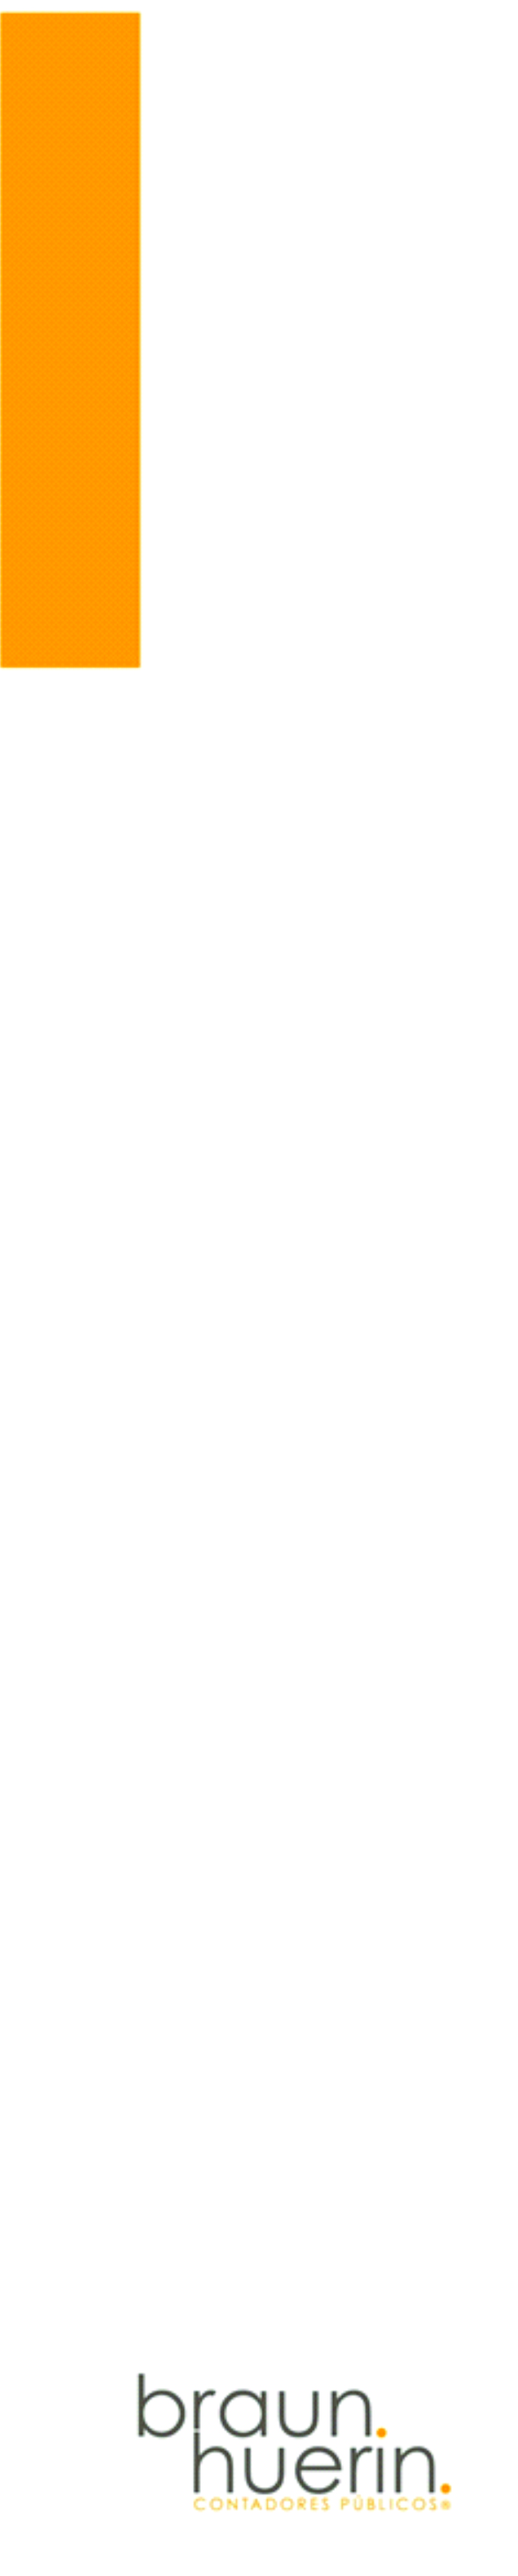
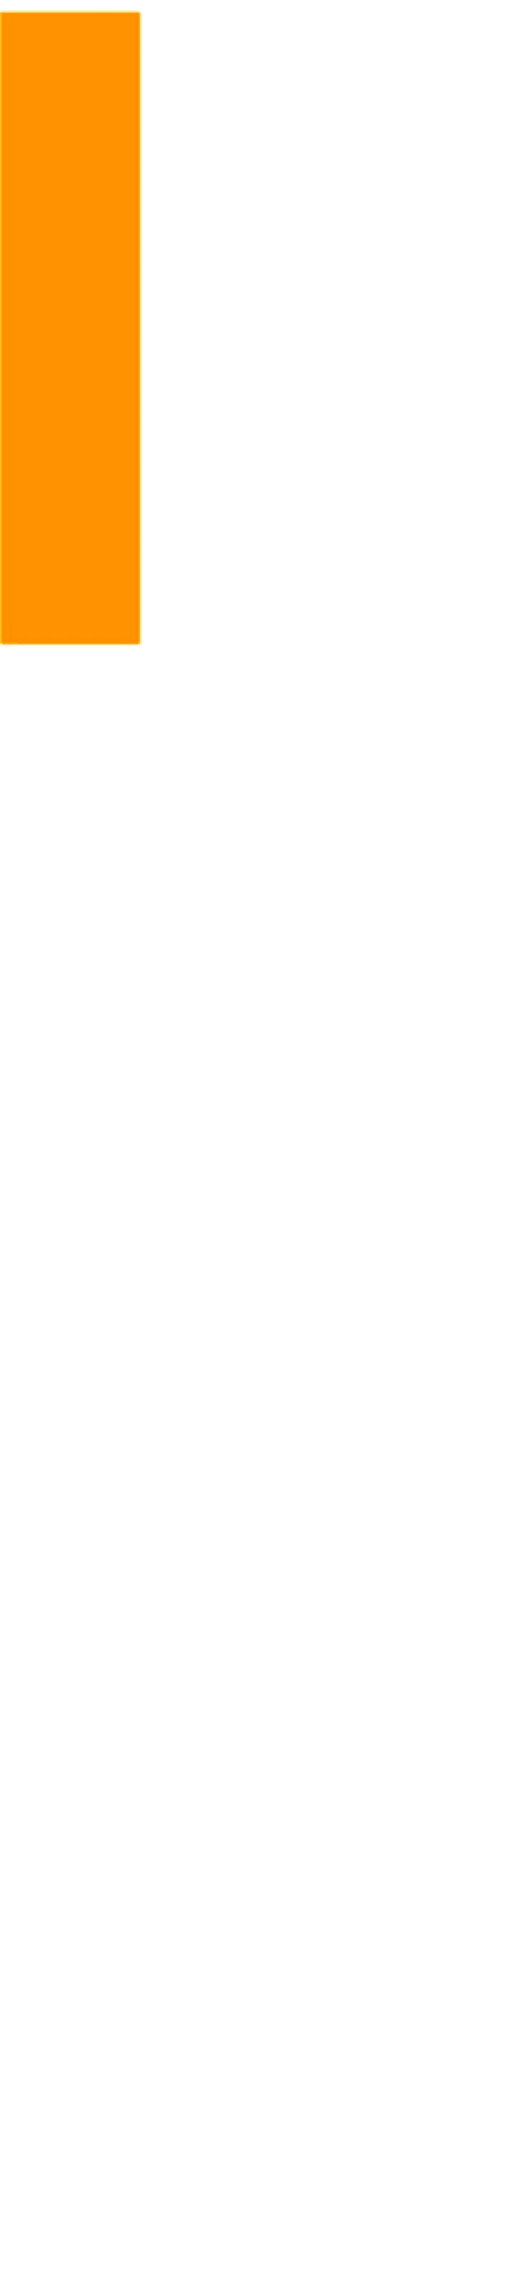
correcciones

Changed region(s): [[0.247, 0.901, 0.8645, 0.9942], [0.0, 0.0, 0.2779, 0.3107]]

diff --git a/services/pdfs/OfferExport.php b/services/pdfs/OfferExport.php
@@ -32,6 +32,7 @@ class OfferExport extends prospectOffer {
      */
     protected $defaultConfigPages;
     protected $settingsDefaultTextBox;
+    protected $footerDefaultSettingsFontStyle;
 
    /*
     * @var
@@ -72,16 +73,16 @@ class OfferExport extends prospectOffer {
 
         $this->settingsDefaultTextBox = array(
             'width' => Converter::cmToPoint(18.16),
-            'height' => Converter::cmToPoint(23.24),
+            'height' => Converter::cmToPoint(23),
             'borderColor' => 'none',
             'wrappingStyle' => 'infront',
             'positioning' => Image::POSITION_ABSOLUTE,
             'posVertical' => Image::POSITION_ABSOLUTE,
             'posHorizontal' => Image::POSITION_ABSOLUTE,
-            'posVerticalRel' => Image::POSITION_RELATIVE_TO_TEXT,
-            'posHorizontalRel' => Image::POSITION_RELATIVE_TO_COLUMN,
-            'marginTop' => Converter::cmToPoint(0.11),
-            'marginLeft' => Converter::cmToPoint(0.93),
+            'posVerticalRel' => Image::POSITION_RELATIVE_TO_MARGIN,
+            'posHorizontalRel' => Image::POSITION_RELATIVE_TO_MARGIN,
+            'marginTop' => Converter::cmToPoint(0.01),
+            'marginLeft' => Converter::cmToPoint(0.58),
         );
 
         $this->pDefaultSettingsFontStyle = array(
@@ -93,6 +94,13 @@ class OfferExport extends prospectOffer {
             'size' => 14,
             'name' => 'Arial',
             'color' => '#FFFFFF'
+        );
+        $this->footerDefaultSettingsFontStyle = array(
+            'size' => 8,
+            'name' => 'Arial',
+            'color' => '#595959',
+            'bold' => true,
+            'allCaps' => true,
         );
         $this->title1FontStyle = array(
             'size' => 16,
@@ -184,17 +192,80 @@ class OfferExport extends prospectOffer {
     function genericSection($drawTextbox = false) {
         $page = new stdClass();
         $page->section = $this->object->addSection($this->defaultConfigPages);
-        $styles =  array(
-            'width' => Converter::cmToPoint(4.97),
-            'height' => Converter::cmToPoint(24.75),
+        $textFooter = " propuesta de servicios de ";
+        $totalServices = is_array($this->data) ? count($this->data) : 0;
+        if($totalServices) {
+            if($totalServices === 1) {
+                $textFooter .= $this->data[0]['nombreServicio'];
+            }
+            else {
+                $lastKey = end(array_keys($this->data));
+                $services = [];
+                $lastService = "";
+                foreach ($this->data as $key => $serv) {
+                    if($key === $lastKey)
+                        $lastService = $serv['nombreServicio'];
+                    else
+                       array_push($services, $serv['nombreServicio']);
+                }
+                $textFooter .= implode(',', $services). " y ". $lastService;
+            }
+        }
+
+        $footer = $page->section->addFooter();
+        $stylesTextBoxFooter = array(
+            'width' => Converter::cmToPoint(14.7),
+            'height' => Converter::cmToPoint(1.73),
+            'borderColor' => 'none',
+            'wrappingStyle' => 'infront',
+            'positioning' => Image::POSITION_ABSOLUTE,
+            'posVertical' => Image::POSITION_ABSOLUTE,
+            'posHorizontal' => Image::POSITION_ABSOLUTE,
+            'posVerticalRel' => Image::POSITION_RELATIVE_TO_LINE,
+            'posHorizontalRel' => Image::POSITION_RELATIVE_TO_COLUMN,
+            'marginTop' => Converter::cmToPoint(0),
+            'marginLeft' => Converter::cmToPoint(4.24),
+        );
+        $stylesLogoFooter =  array(
+            'width' => Converter::cmToPoint(3.3),
+            'height' => Converter::cmToPoint(1.63),
             'wrappingStyle' => 'behind',
             'positioning' => Image::POSITION_ABSOLUTE,
             'posHorizontal'    => Image::POSITION_HORIZONTAL_LEFT,
         );
+        $footer->addImage(DOC_ROOT."/images/word/logo.jpg", $stylesLogoFooter);
+        $textBoxFooter = $footer->addTextBox($stylesTextBoxFooter);
+        $textBoxFooter->addText($textFooter, $this->footerDefaultSettingsFontStyle,
+                                array(
+                                'align' => Jc::BOTH,
+                                'spacing' => Converter::pointToTwip(4),
+                                'spacingLineRule' => LineSpacingRule::AUTO,));
+
+        $styles =  array(
+            'width' => Converter::cmToPoint(4.97),
+            'height' => Converter::cmToPoint(22),
+            'wrappingStyle' => 'behind',
+            'positioning' => Image::POSITION_ABSOLUTE,
+            'posHorizontal'    => Image::POSITION_HORIZONTAL_LEFT,
+        );
+        $styles2 =  array(
+            'width' => Converter::cmToPoint(1.35),
+            'height' => Converter::cmToPoint(2.44),
+            'wrappingStyle' => 'behind',
+            'positioning' => Image::POSITION_ABSOLUTE,
+            'posHorizontal'    => Image::POSITION_ABSOLUTE,
+            'posVertical' => Image::POSITION_ABSOLUTE,
+            'posVerticalRel' => Image::POSITION_RELATIVE_TO_LINE,
+            'posHorizontalRel' => Image::POSITION_RELATIVE_TO_MARGIN,
+            'marginTop' => Converter::cmToPoint(22.5),
+            'marginLeft' => Converter::cmToPoint(17.65),
+        );
         $page->section->addImage(DOC_ROOT."/images/word/side.jpg", $styles);
+        $page->section->addImage(DOC_ROOT."/images/word/side_footer.jpg", $styles2);
         if(!$drawTextbox)
             return $page;
         $page->textbox =  $page->section->addTextBox($this->settingsDefaultTextBox);
+
         return $page;
     }
     function presentationPage() {
@@ -202,8 +273,8 @@ class OfferExport extends prospectOffer {
         $page->textbox->addText('CDMX, a '.$this->Util()->setFormatDate(date('Y-m-d')), '+Cuerpo',
             array('align' => Jc::END, 'spaceAfter' => Converter::cmToTwip(1.2), 'spacingLineRule' => LineSpacingRule::AUTO));
         $dear = $page->textbox->addTextRun(array('align' => Jc::START, 'spaceAfter' => Converter::cmToTwip(.85), 'spacingLineRule' => LineSpacingRule::AUTO));
-        $dear->addText('Estimado Sr. ', array('bold' => true, 'name'=> 'Arial', 'size'=>12));
-        $dear->addText($this->info()['name'], '+Cuerp');
+        $dear->addText('Estimado C. ', '+Cuerpo');
+        $dear->addText($this->info()['name'], array('bold' => true, 'name'=> 'Arial', 'size'=>12));
         $page->textbox->addText('Por medio del presente convenio les describimos los alcances de los servicios solicitados por ustedes. ',
             '+Cuerpo', $this->defaultSettingsParagraph);
         $page->textbox->addText('De manera general todos los servicios que brindamos siguen los procesos más estrictos de calidad, además de cumplir cabalmente con las normas de información financiera y las diferentes leyes fiscales según correspondan. ',
@@ -440,7 +511,6 @@ class OfferExport extends prospectOffer {
         $this->reportPage();
         $this->honorario();
         $this->aceptacion();
-
 
         //$this->object->addSection()->addTable()->addRow()
         /*
